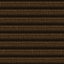
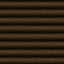
Log cabin look B2: rounder logs, run ends stick out 2 px with rounded tips (overhang_px on tiles, drawn by the terrain shader)
Claude-Session: https://claude.ai/code/session_01GyjLBiTNdibHo5Vf8i87hH

diff --git a/docs/decisions.md b/docs/decisions.md
@@ -87,6 +87,9 @@ Newest first. Each entry: what was decided, why, and what it affects.
 - **Craft amount:** [-] [n] [+] Craft; Shift = 10, Ctrl = as many as you can up to a
   stack. Replaces the Craft / x10 / All buttons.
 - **Open doors:** any visible part of the swung face can be clicked.
+- **Log cabin look (Patrick, style B2, placeholder):** rounded horizontal logs; where a run
+  ends, the log sticks out 2 px with rounded tips (`overhang_px`, drawn by the terrain
+  shader, no collision). Back wall: the same logs, darker.
 - **Build against doors (Patrick):** a door anchors blocks (next to it, on top) and back
   walls (next to, on top, behind), open or closed (`anchors_building` on ObjectDef).
 - **Stone Pickaxe 2x2:** 1x1 blocks were too small; every pickaxe can toggle down to 1x1

diff --git a/assets/ASSETS.md b/assets/ASSETS.md
@@ -205,6 +205,6 @@ or .ogg); the generator never overwrites without `--force`.
 
 | File | What |
 | --- | --- |
-| terrain/logs.png, terrain/logs_wall.png | Log cabin block and back wall (64x64, horizontal logs; the wall is the same darkened). Hand-made placeholders, not from generate_tiles.gd |
+| terrain/logs.png, terrain/logs_wall.png | Log cabin block and back wall (64x64, rounded horizontal logs, style B2; the wall is the same darkened). Hand-made placeholders, not from generate_tiles.gd. The block ends sticking out 2 px are drawn by the terrain shader (`overhang_px` on the tile) |
 | items/{icons,held}/log.png | Copies of the old wood (log) icon and held sprite |
 | tiles/blocks.png row 7 | Collision row for the log block (a copy of the planks row) |

diff --git a/docs/items-and-mining.md b/docs/items-and-mining.md
@@ -137,7 +137,7 @@ Current items:
 | --- | --- |
 | Copper Pickaxe | 25 per hit, 2x2, reach 10 |
 | Copper Axe | 25 per hit on trees (a tree has 100), reach 10 |
-| Dirt, Stone, Wood, Log | Blocks (Wood places planks, Log a log cabin block); right click places them as background walls |
+| Dirt, Stone, Wood, Log | Blocks (Wood places planks, Log a log cabin block whose run ends stick out 2 px, `overhang_px` on the tile); right click places them as background walls |
 | Copper Ore, Wood Platform | Blocks (front only) |
 | Rope, Torch | Tile objects |
 | Basic Spellbook | The book used when the Book slot is empty: 4 slots, power x1 |
